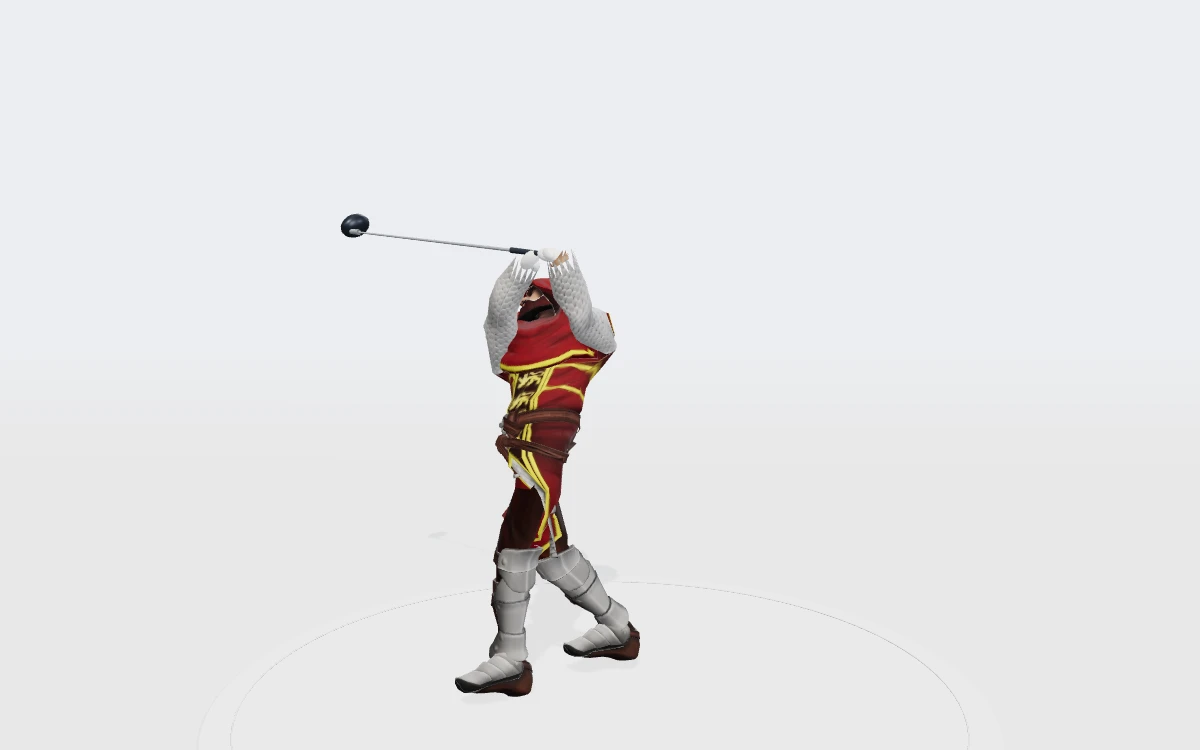
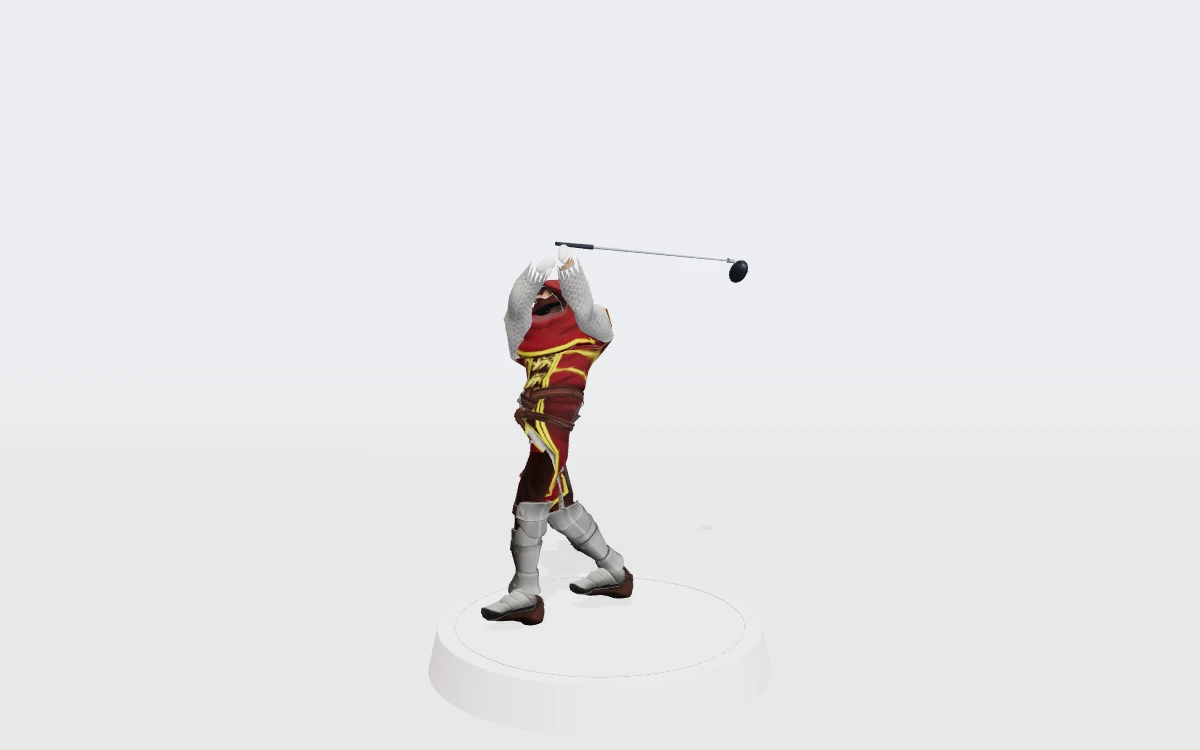
Drive the public golf club from the approved recorded reconstruction

Changed region(s): [[0.3392, 0.3067, 0.555, 0.9507], [0.5858, 0.3373, 0.6475, 0.368], [0.2775, 0.276, 0.3083, 0.3373]]

diff --git a/src/motion/avatarGolf.js b/src/motion/avatarGolf.js
@@ -1,5 +1,6 @@
 import * as THREE from 'three';
 import {RoomEnvironment} from 'three/addons/environments/RoomEnvironment.js';
+import {clubPoseAt,loadClubFrames} from './clubPose.js';
 import {removeFingeredHands,createGolfEquipment} from './golfEquipment.js';
 import {GLTFLoader} from 'three/addons/loaders/GLTFLoader.js';
 import {MeshoptDecoder} from 'three/addons/libs/meshopt_decoder.module.js';
@@ -17,8 +18,8 @@ export async function createAvatarSurface(canvas){
  let model;
  try{
   const loader=new GLTFLoader().setMeshoptDecoder(MeshoptDecoder);
-  const [gltf,frames,headFrames]=await Promise.all([loader.loadAsync('/assets/models/portfolio-character.glb'),loadMotionFrames(),loadHeadFrames()]);
-  if(frames.length!==headFrames.length)throw new Error('Motion tracks must be synchronized');
+  const [gltf,frames,headFrames,clubFrames]=await Promise.all([loader.loadAsync('/assets/models/portfolio-character.glb'),loadMotionFrames(),loadHeadFrames(),loadClubFrames()]);
+  if(frames.length!==headFrames.length||frames.length!==clubFrames.length)throw new Error('Motion tracks must be synchronized');
   model=gltf.scene;const scene=new THREE.Scene();scene.add(model);model.updateMatrixWorld(true);
   const bones=new Map();model.traverse(node=>{if(node.isBone||/mixamorig/i.test(node.name))bones.set(node.name.replace(/^.*mixamorig:?/i,'').replace(/[^a-z0-9]/gi,'').toLowerCase(),node);if(node.isMesh){node.castShadow=true;node.frustumCulled=false;for(const material of Array.isArray(node.material)?node.material:[node.material]){material.roughness=.85;material.metalness=0;}}});
   const get=name=>{const bone=bones.get(name.replace(/[^a-z0-9]/gi,'').toLowerCase());if(!bone)throw new Error('Avatar rig is incomplete');return bone;};
@@ -34,10 +35,10 @@ export async function createAvatarSurface(canvas){
   const restHip=basis(at('RightUpLeg').sub(at('LeftUpLeg')),at('Spine2').sub(at('Hips'))),restChest=basis(at('RightArm').sub(at('LeftArm')),at('Neck').sub(at('Spine')));
   const bounds=new THREE.Box3().setFromObject(model),clearance=(at('LeftFoot').y+at('RightFoot').y)/2-bounds.min.y;
   const retargetHead=createHeadRetargeter({neck:get('Neck'),head:get('Head'),tip:get('HeadTop_End'),rightShoulder:get('RightArm'),leftShoulder:get('LeftArm')});
-  const camera=new THREE.PerspectiveCamera(38,1,.01,50),target=new THREE.Vector3(0,1.38,0);
+  const camera=new THREE.PerspectiveCamera(38,1,.01,50),target=new THREE.Vector3(0,1.3,0);
   const hemi=new THREE.HemisphereLight(),sun=new THREE.DirectionalLight();hemi.intensity=1.1;sun.intensity=2.2;sun.position.set(-3,5,4);sun.castShadow=true;sun.shadow.mapSize.set(1024,1024);sun.shadow.camera.left=-2;sun.shadow.camera.right=2;sun.shadow.camera.top=3;sun.shadow.camera.bottom=-1;sun.shadow.normalBias=.0025;sun.shadow.bias=-.00005;sun.shadow.radius=4;const rim=new THREE.DirectionalLight();rim.intensity=1.4;rim.position.set(3,3,-3);const fill=new THREE.DirectionalLight();fill.intensity=.6;fill.position.set(3,2,4);scene.add(hemi,sun,rim,fill);
-  const floor=new THREE.Mesh(new THREE.PlaneGeometry(200,200),new THREE.MeshStandardMaterial({roughness:.9,metalness:.05}));floor.rotation.x=-Math.PI/2;floor.position.y=-.012;floor.receiveShadow=true;scene.add(floor);
-  const stage=new THREE.Mesh(new THREE.CylinderGeometry(1.65,1.7,.035,96),new THREE.MeshStandardMaterial({roughness:.84,metalness:.08}));stage.position.y=-.025;stage.receiveShadow=true;scene.add(stage);const ring=new THREE.Mesh(new THREE.TorusGeometry(1.53,.0025,6,96),new THREE.MeshStandardMaterial({roughness:.7}));ring.rotation.x=-Math.PI/2;ring.position.y=-.004;scene.add(ring);
+  const floor=new THREE.Mesh(new THREE.PlaneGeometry(200,200),new THREE.MeshStandardMaterial({roughness:.9,metalness:.05}));floor.rotation.x=-Math.PI/2;floor.position.y=-.24;floor.receiveShadow=true;scene.add(floor);
+  const stage=new THREE.Mesh(new THREE.CylinderGeometry(.85,.9,.22,96),new THREE.MeshStandardMaterial({roughness:.84,metalness:.08}));stage.position.y=-.12;stage.receiveShadow=true;scene.add(stage);const ring=new THREE.Mesh(new THREE.TorusGeometry(.76,.0025,6,96),new THREE.MeshStandardMaterial({roughness:.7}));ring.rotation.x=-Math.PI/2;ring.position.y=-.004;scene.add(ring);
   function world(name,q){const bone=get(name),parent=bone.parent.getWorldQuaternion(new THREE.Quaternion());bone.quaternion.copy(parent.invert().multiply(q));bone.updateMatrixWorld(true);}
   function pointDirection(name,child,direction){const r=original(child).position.clone().sub(original(name).position).normalize();const q=new THREE.Quaternion().setFromUnitVectors(r,direction.clone().normalize()).multiply(original(name).world);world(name,q);}
   let lastWidth=0,lastHeight=0,lastPalette;
@@ -57,8 +58,8 @@ export async function createAvatarSurface(canvas){
     world(side+'Foot',hipDelta.clone().multiply(original(side+'Foot').world));
    }
    const desired=vector(p.pelvis);desired.y+=clearance;model.position.copy(desired.sub(at('Hips')));model.updateMatrixWorld(true);
-   equipment.update(p,colors);
-   const distance=4.6/view.zoom;camera.position.set(target.x+Math.sin(view.yaw)*Math.cos(view.pitch)*distance,target.y-Math.sin(view.pitch)*distance,target.z+Math.cos(view.yaw)*Math.cos(view.pitch)*distance);camera.lookAt(target);renderer.render(scene,camera);
+   equipment.update(clubPoseAt(phase,clubFrames),colors);
+   const distance=5.6/view.zoom;camera.position.set(target.x+Math.sin(view.yaw)*Math.cos(view.pitch)*distance,target.y-Math.sin(view.pitch)*distance,target.z+Math.cos(view.yaw)*Math.cos(view.pitch)*distance);camera.lookAt(target);renderer.render(scene,camera);
   }
   return {kind:'avatar',draw,dispose(){model.traverse(node=>{if(node.isMesh){node.geometry.dispose();node.skeleton?.dispose();for(const material of Array.isArray(node.material)?node.material:[node.material]){for(const value of Object.values(material))if(value?.isTexture)value.dispose();material.dispose();}}});equipment.dispose();environment.dispose();floor.geometry.dispose();floor.material.dispose();stage.geometry.dispose();stage.material.dispose();ring.geometry.dispose();ring.material.dispose();renderer.dispose();renderer.forceContextLoss();}};
  }catch(error){renderer.dispose();renderer.forceContextLoss();throw error;}

diff --git a/src/motion/golfEquipment.js b/src/motion/golfEquipment.js
@@ -15,20 +15,24 @@ export function createGolfEquipment(scene,get){
  const glove=new THREE.MeshStandardMaterial({roughness:.83}),metal=new THREE.MeshStandardMaterial({roughness:.27,metalness:.82}),grip=new THREE.MeshStandardMaterial({roughness:.94}),headMaterial=new THREE.MeshStandardMaterial({roughness:.3,metalness:.55});
  const sphere=new THREE.SphereGeometry(1,20,14),handParts=[];
  for(const side of ['Left','Right']){const group=new THREE.Group(),palm=new THREE.Mesh(sphere,glove),thumb=new THREE.Mesh(sphere,glove);palm.scale.set(.036,.057,.027);palm.position.y=.044;thumb.scale.set(.019,.035,.025);thumb.position.set(side==='Left'?-.026:.026,.027,.015);thumb.rotation.z=side==='Left'?-.38:.38;group.add(palm,thumb);group.traverse(n=>{if(n.isMesh)n.castShadow=true;});root.add(group);handParts.push({side,group});}
- const club=new THREE.Group();root.add(club);
- const shaft=new THREE.Mesh(new THREE.CylinderGeometry(.004,.007,1.03,16),metal);shaft.position.y=.61;
- const handle=new THREE.Mesh(new THREE.CylinderGeometry(.012,.009,.23,16),grip);handle.position.y=.045;
- const hosel=new THREE.Mesh(new THREE.CylinderGeometry(.011,.013,.07,12),metal);hosel.position.y=1.12;
- const clubHead=new THREE.Mesh(sphere,headMaterial);clubHead.scale.set(.073,.039,.054);clubHead.position.set(.044,1.155,.012);clubHead.rotation.z=-.2;club.add(shaft,handle,hosel,clubHead);club.traverse(n=>{if(n.isMesh)n.castShadow=true;});
+ const club=new THREE.Group();club.name='recorded-club';root.add(club);
+ const shaft=new THREE.Mesh(new THREE.CylinderGeometry(.004,.007,1,16),metal);
+ const handle=new THREE.Mesh(new THREE.CylinderGeometry(.012,.009,1,16),grip);
+ const hosel=new THREE.Mesh(new THREE.CylinderGeometry(.011,.013,1,12),metal);
+ const clubHead=new THREE.Mesh(sphere,headMaterial);clubHead.scale.set(.073,.039,.054);shaft.name='club-shaft';handle.name='club-grip';clubHead.name='club-head';club.add(shaft,handle,hosel,clubHead);club.traverse(n=>{if(n.isMesh)n.castShadow=true;});
+ function segment(mesh,a,b){const delta=b.clone().sub(a);mesh.position.copy(a).add(b).multiplyScalar(.5);mesh.quaternion.setFromUnitVectors(yAxis,delta.clone().normalize());mesh.scale.y=delta.length();}
  const wrist=side=>get(side+'Hand').getWorldPosition(new THREE.Vector3());
- return {update(body,colors){
-  // An illustrative shaft follows the existing body wrist line. A fixed grip offset is purely illustrative, not reconstructed club motion.
-  const direction=new THREE.Vector3(...body.rightHand).sub(new THREE.Vector3(...body.leftHand)).normalize().applyAxisAngle(new THREE.Vector3(0,1,0),Math.PI/3);
+ return {update(pose,colors){
+  const direction=pose.heel.clone().sub(pose.grip).normalize();
   glove.color.set(colors.glove);metal.color.set(colors.metal);grip.color.set(colors.grip);headMaterial.color.set(colors.grip);
-  const left=wrist('Left'),right=wrist('Right'),center=left.clone().add(right).multiplyScalar(.5);
-  // Fit the illustrative grip to the character, without any additional motion track.
-  const away=center.clone().sub(get('Spine2').getWorldPosition(new THREE.Vector3())).normalize().multiplyScalar(.035);center.add(away);
-  club.position.copy(center);club.quaternion.setFromUnitVectors(yAxis,direction);
-  for(const {side,group}of handParts){const start=side==='Left'?left:right,target=center.clone().addScaledVector(direction,side==='Left'?-.035:.035),aim=target.sub(start);if(aim.lengthSq()<.0001)aim.copy(direction);group.position.copy(start);group.quaternion.setFromUnitVectors(yAxis,aim.normalize());}
+  // Every club landmark follows the recording in the same world frame as the body.
+  segment(shaft,pose.grip,pose.heel);
+  segment(handle,pose.grip,pose.grip.clone().addScaledVector(direction,.23));
+  segment(hosel,pose.heel.clone().addScaledVector(direction,-.045),pose.heel);
+  clubHead.position.copy(pose.head);
+  const side=pose.head.clone().sub(pose.heel);side.addScaledVector(direction,-side.dot(direction)).normalize();
+  const normal=new THREE.Vector3().crossVectors(side,direction).normalize();
+  clubHead.quaternion.setFromRotationMatrix(new THREE.Matrix4().makeBasis(side,direction,normal));
+  for(const {side,group}of handParts){const start=wrist(side),target=pose.grip.clone().addScaledVector(direction,side==='Left'?.045:.115),aim=target.sub(start);if(aim.lengthSq()<.0001)aim.copy(direction);group.position.copy(start);group.quaternion.setFromUnitVectors(yAxis,aim.normalize());}
  },dispose(){scene.remove(root);sphere.dispose();shaft.geometry.dispose();handle.geometry.dispose();hosel.geometry.dispose();glove.dispose();metal.dispose();grip.dispose();headMaterial.dispose();}};
 }

diff --git a/src/motion/clubPose.js b/src/motion/clubPose.js
@@ -1,0 +1,10 @@
+import {Vector3} from 'three';
+export function clubPoseAt(phase,frames){
+ const position=Math.max(0,Math.min(1,phase))*(frames.length-1),i=Math.floor(position),j=Math.min(i+1,frames.length-1),t=position-i;
+ return Object.fromEntries(['grip','heel','head'].map(key=>[key,new Vector3(...frames[i][key]).lerp(new Vector3(...frames[j][key]),t)]));
+}
+export async function loadClubFrames(){
+ const response=await fetch('/assets/media/golf-club-motion.json');if(!response.ok)throw new Error('Club motion unavailable');const data=await response.json();
+ if(data.format!=='club-pose-v1'||!Array.isArray(data.frames)||data.frames.length<2||data.frames.length>1000||!data.frames.every(frame=>['grip','heel','head'].every(k=>Array.isArray(frame[k])&&frame[k].length===3&&frame[k].every(Number.isFinite))))throw new Error('Invalid club motion');
+ return data.frames;
+}

diff --git a/README.md b/README.md
@@ -93,7 +93,7 @@ Website selections on phones open the shared project viewer immediately, with th
 
 The public engineering section combines projections of the approved reconstructed motion with the portfolio avatar, and high-level compatibility and commercial-workflow diagrams. It identifies product scope without presenting an invented product screenshot.
 
-The optional avatar has fixed neutral mittens rather than inferred finger movement. The illustrative geometric club is fitted to the character’s existing wrist line. No additional club-motion track is distributed. A lit studio environment, soft-ground stage, and fill/rim lighting support both themes. These presentation adaptations are not measurement output.
+The optional avatar has fixed neutral mittens rather than inferred finger movement. The club follows the recorded reconstruction in synchronization with the body. A lit studio environment, soft-ground stage, and fill/rim lighting support both themes. These presentation adaptations are not measurement output.
 
 The encrypted document supports embedded images, with an enlarged, pannable viewer on phones. Closing or locking removes decrypted content. Image provenance is recorded with the protected content, within its approved audience. The passphrase remains unchanged.
 
